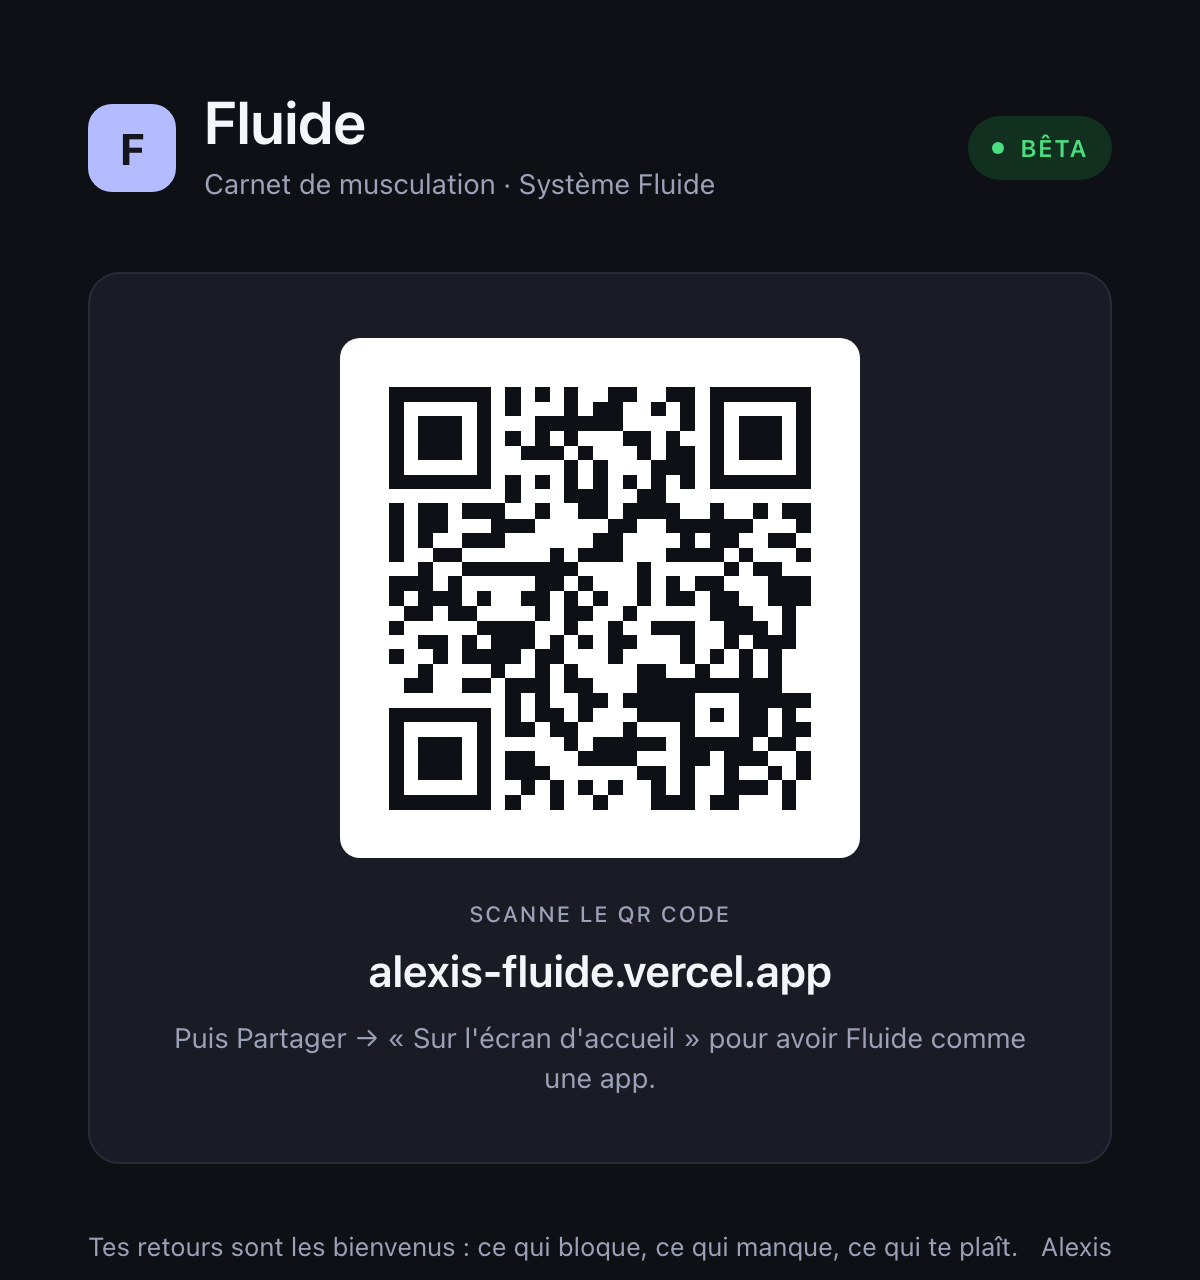
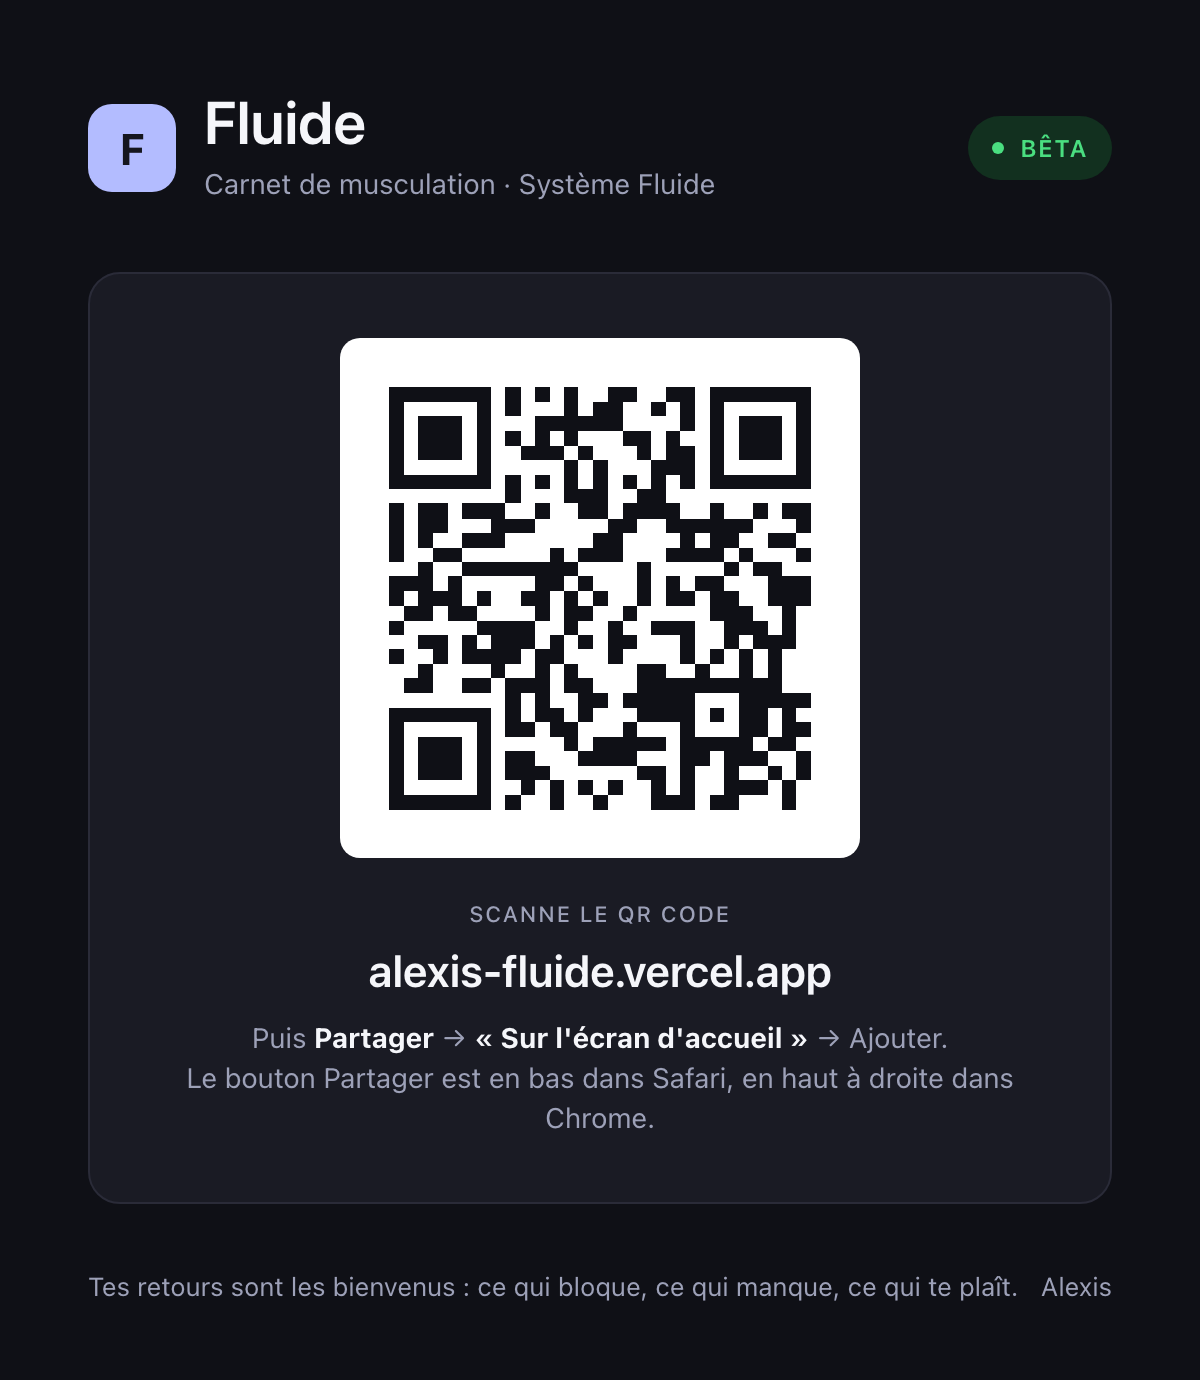
Fiche bêta : ligne d'installation avec l'emplacement de Partager selon Safari ou Chrome

diff --git a/livrables/fluide/fiche-beta.html b/livrables/fluide/fiche-beta.html
@@ -50,7 +50,7 @@
     <div class="txt">
       <p class="over">Scanne le QR code</p>
       <p class="url">alexis-fluide.vercel.app</p>
-      <p class="small">Puis Partager → « Sur l'écran d'accueil » pour avoir Fluide comme une app.</p>
+      <p class="small">Puis <b style="color:#f5f6fa">Partager</b> → <b style="color:#f5f6fa">« Sur l'écran d'accueil »</b> → Ajouter.<br>Le bouton Partager est en bas dans Safari, en haut à droite dans Chrome.</p>
     </div>
   </div>
 
